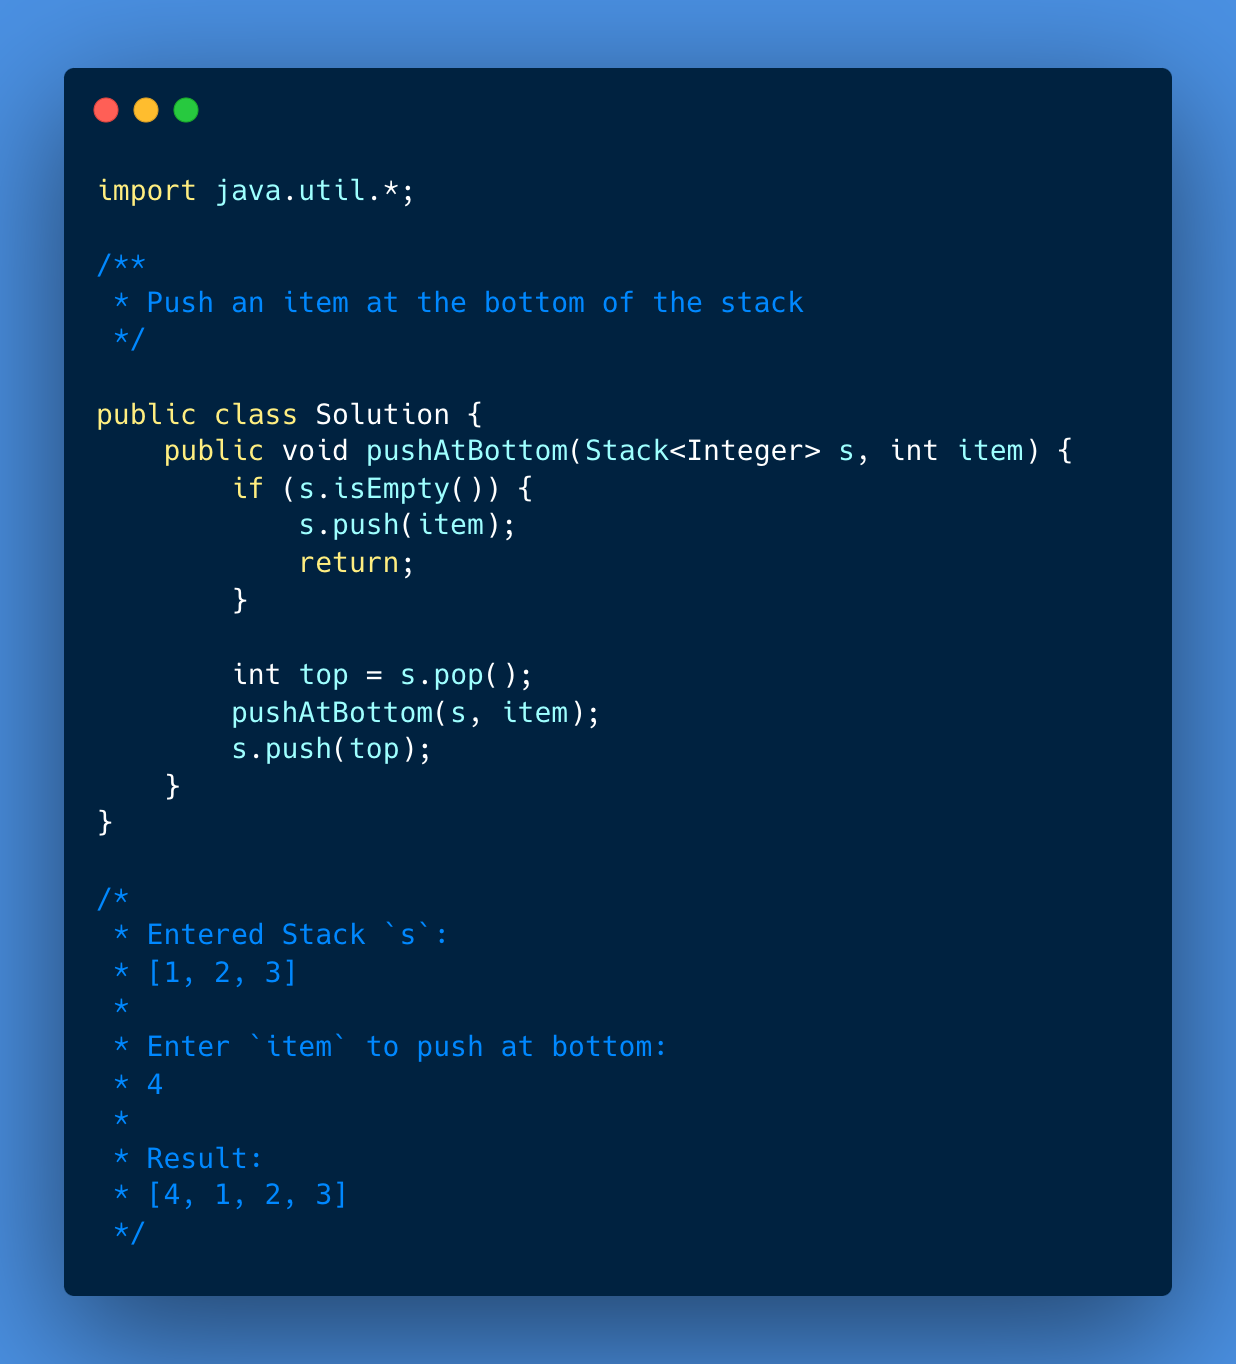
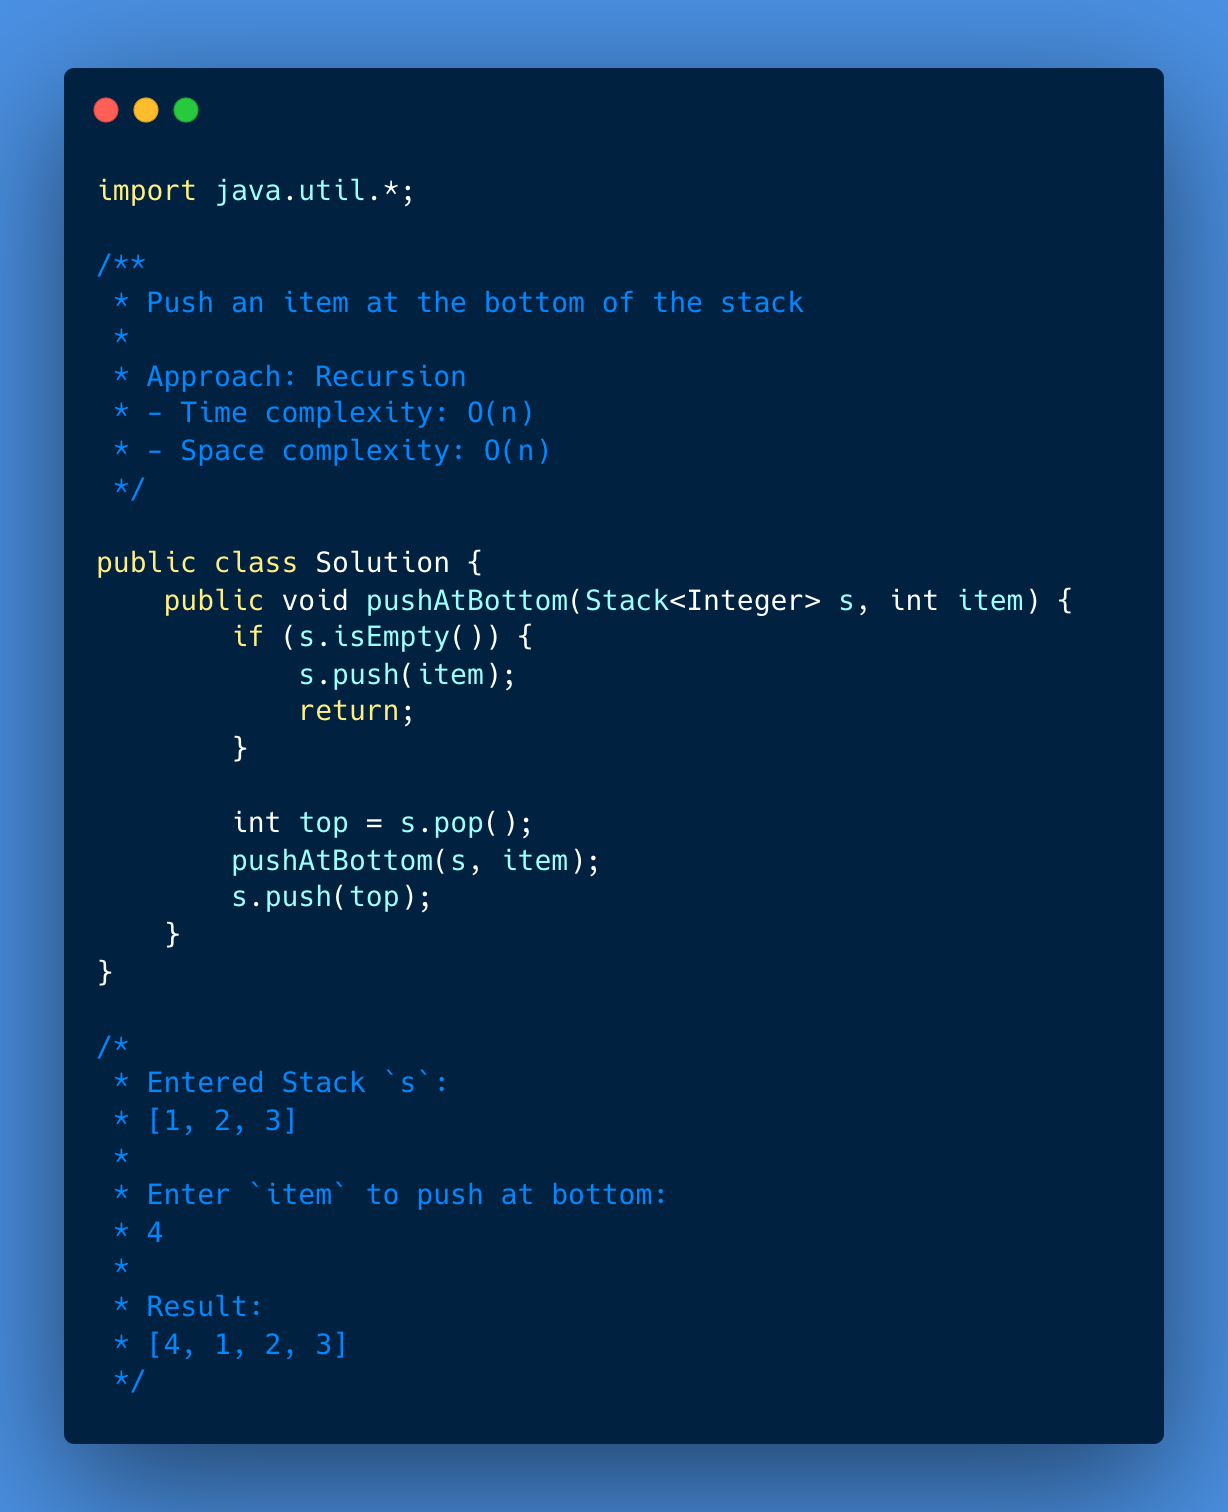
Code comment updates

diff --git a/174-push-bottom-stack/001-solution/Solution.java b/174-push-bottom-stack/001-solution/Solution.java
@@ -2,6 +2,10 @@ import java.util.*;
 
 /**
  * Push an item at the bottom of the stack
+ * 
+ * Approach: Recursion
+ * - Time complexity: O(n)
+ * - Space complexity: O(n)
  */
 
 public class Solution {
